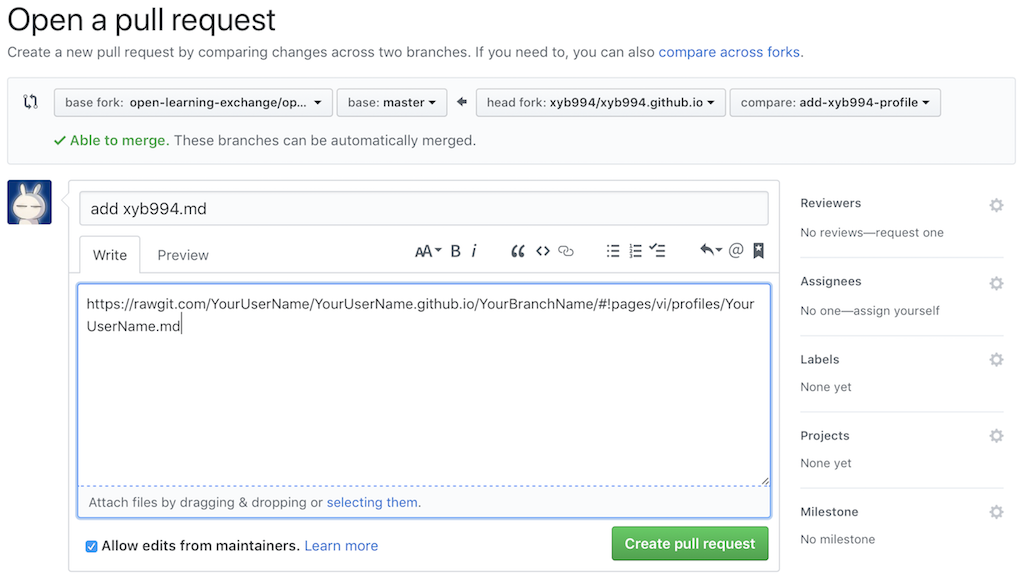
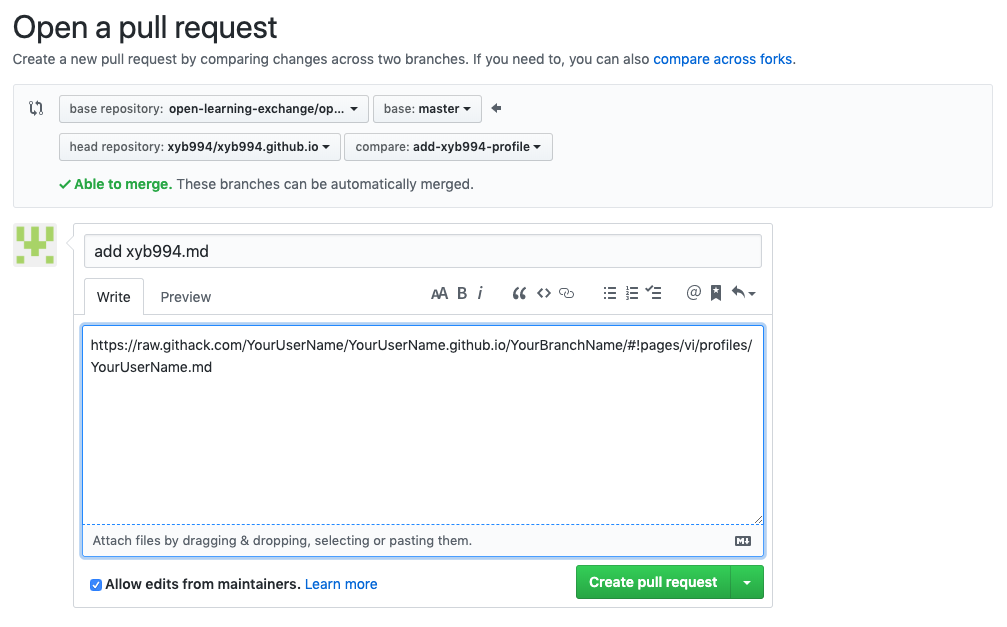
Update raw.githack links (fixes #2308) (#2313)

diff --git a/pages/vi/vi-github-issues.md b/pages/vi/vi-github-issues.md
@@ -80,7 +80,7 @@ For edits to this markdown wiki, we recommend that your commit messages only con
 * Use the imperative mood in the subject line
 
 Here is an example of how you would write your commit message:
-`$ git commit -m "Add commit message style guide and add Rawgit section (fixes #841)"`
+`$ git commit -m "Add commit message style guide and add raw.githack section (fixes #841)"`
 
 NOTE: In your commit message, if you add a keyword like "fixes" or "resolves" followed by "#" and the issue number, once your pull request is merged, the issue will automatically be closed. This is helpful because it helps declutter the issues section. See more [here](https://help.github.com/articles/closing-issues-using-keywords/).
 
@@ -96,21 +96,21 @@ For example http://raw.githack.com/EmilyLarkin/EmilyLarkin.github.io/master/#!in
 
 ![Raw.githack Generator](images/raw.githackGenerator.png)
 
-You can also use the Raw.githack url generator on <https://raw.githack.com>
+You can also use the raw.githack url generator on <https://raw.githack.com>
 1.  Select the branch you were working on from the drop down on the top left
 2.  Navigate to the page your changed in your fork of the github repository  
 3.  Copy the URL in your browser and paste it in the field on <https://raw.githack.com>
 4.  Select the Development URL
 5.  Add ```#!``` after the forward slash proceeding your branch name, this will show the markdown in presentation mode rather than as raw markdown.
 
-Raw.githack makes it easy to see what the page will look like if your branch is merged, so don't forget to include a Raw.githack link in your next step, the pull request.
+Raw.githack makes it easy to see what the page will look like if your branch is merged, so don't forget to include a raw.githack link in your next step, the pull request.
 
 ## Create a Pull Request
 If you login to your own fork of OLE on Github, Github will notice that you recently pushed a new branch. The fork can be found via `https://github.com/YourUsername/YourUsername.github.io`, replacing YourUsername with your own details. Press the green button that says Compare & pull request. In this new page, give the PR a title and description. Once you are done with filling out these forms, submit the pull request by clicking on the green create pull request button.
 
 ![Compare & Pull](images/vi-compare-pull.png)
 
-For everyone's convenience, we highly recommend that you follow a certain structure when submitting a pull request. We suggest to include the issue for which the pull request is resolving (for example, if your pull request fixes the issue number 320, then add `#320` to your pull request) to the title of your PR and also the rawgit link into the description of the pull request. This saves a lot of time for the person reading your pull request as he/she does not need to search and match the issues with the corresponding PR and is able to instantly see the changes pushed via the rawgit link.
+For everyone's convenience, we highly recommend that you follow a certain structure when submitting a pull request. We suggest to include the issue for which the pull request is resolving (for example, if your pull request fixes the issue number 320, then add `#320` to your pull request) to the title of your PR and also the raw.githack link into the description of the pull request. This saves a lot of time for the person reading your pull request as he/she does not need to search and match the issues with the corresponding PR and is able to instantly see the changes pushed via the raw.githack link.
 
 ![Pull Request Check List](images/vi-pull-request-details.png)
 
@@ -120,7 +120,7 @@ Additionally, creating a checklist will help others understand what you have don
 [x] Are there any unneeded files in the pull request?
 [x] Did they make a branch for their patch?
 [x] Does the pull request actually fix the issue?
-[x] Check the pull request on rawgit, does it display without any errors?
+[x] Check the pull request on raw.githack, does it display without any errors?
 [x] Is there any merge conflicts?
 [x] Make sure that people use their GitHub accounts when making commits through git
 

diff --git a/pages/vi/vi-github-and-markdown.md b/pages/vi/vi-github-and-markdown.md
@@ -112,7 +112,7 @@ Now, check what this looks like on your own page `https://raw.githack.com/YourUs
 
 **NOTE**:
 • If you don't see any changes in your page after editing your file then you need to clear your browser's cache or open your page in your browser's **"incognito"** or **"privacy"** mode. You can also press Ctrl+Shift+R or Ctrl+F5 to reload the page with cache cleared.
-• As MDwiki site is what we use for "production," please **always check** if everything renders as you expected using rawgit link. There are [different flavors of Markdown](https://github.com/commonmark/CommonMark/wiki/Markdown-Flavors). Use GitHub's preview tab for reference only.
+• As MDwiki site is what we use for "production," please **always check** if everything renders as you expected using raw.githack link. There are [different flavors of Markdown](https://github.com/commonmark/CommonMark/wiki/Markdown-Flavors). Use GitHub's preview tab for reference only.
 
 
 ### Open a pull request
@@ -126,7 +126,7 @@ Once you have your profile ready, it's time to create a pull request. Click on o
 **There are a few things to watch out before clicking on the green "Create pull request" button**. Make sure you:
 
 * give the pull request a short and descriptive title (e.g. create YourUserName.md)
-* include the rawgit link to your Markdown profile page in the pull request description
+* include the raw.githack link to your Markdown profile page in the pull request description
 * scroll down the page and verify you used at least 3-5 Markdown elements in your profile
 
 Finally, click "Create pull request" button and post the link to your github.io and profile pull request in the [gitter chat](https://gitter.im/open-learning-exchange/chat):

diff --git a/.github/PULL_REQUEST_TEMPLATE.md b/.github/PULL_REQUEST_TEMPLATE.md
@@ -12,5 +12,5 @@ Fixes #
 ### Description
 
 
-### RawGit preview link
-<!-- rawgit link to page(s) changed -->
+### Raw.Githack preview link
+<!-- raw.githack link to page(s) changed -->
